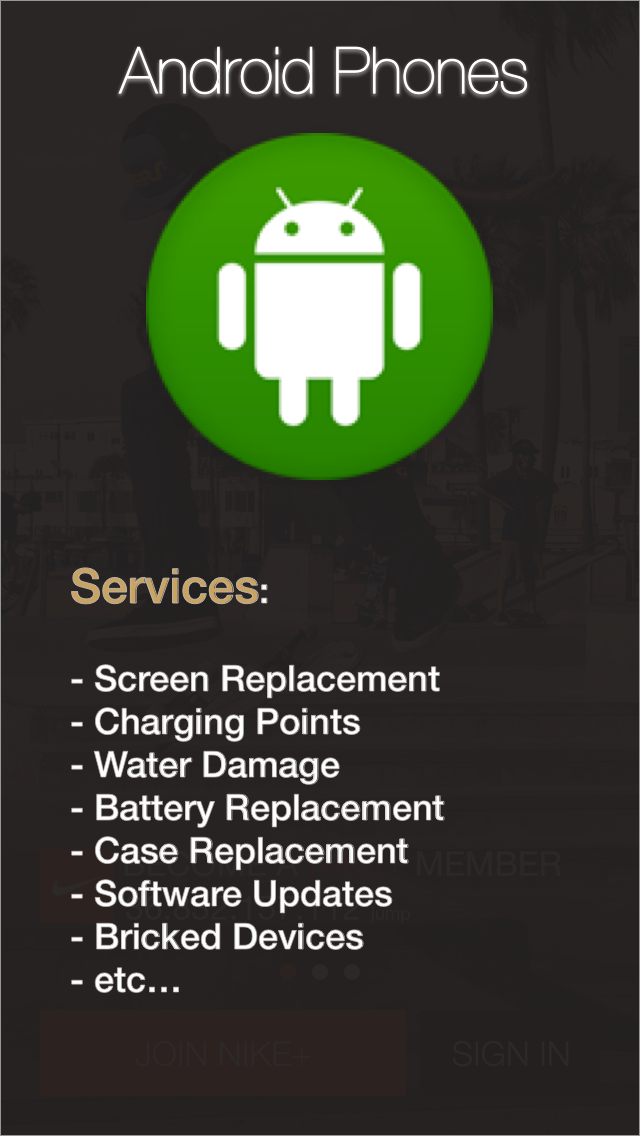
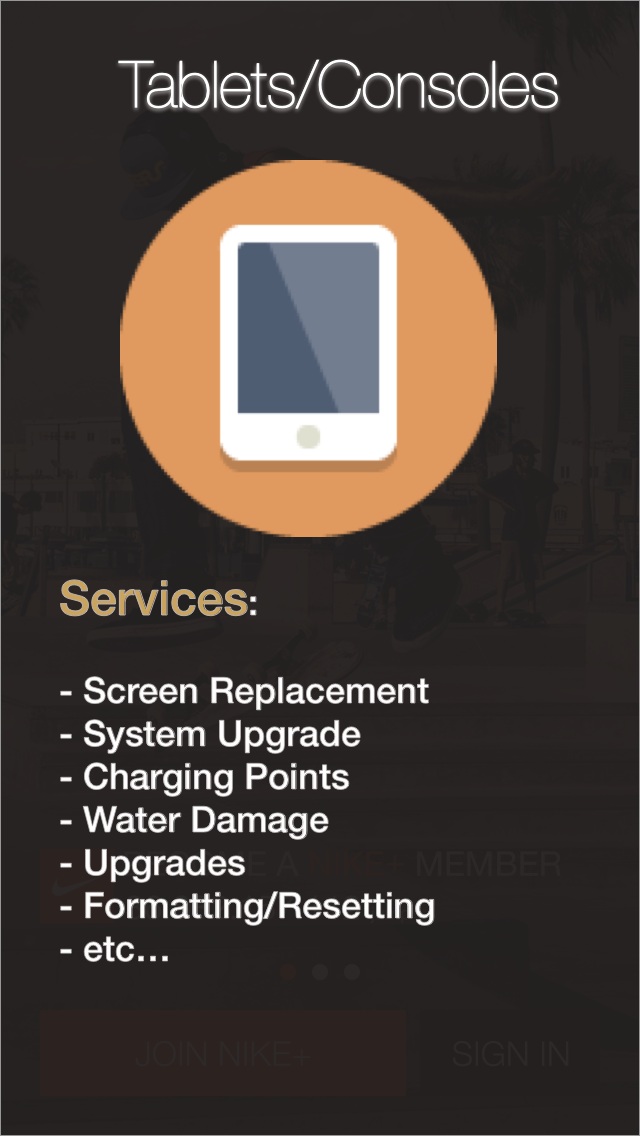
fix services

Changed region(s): [[0.0938, 0.0308, 0.875, 0.5546], [0.0938, 0.5854, 0.6875, 0.8935]]

diff --git a/index.html b/index.html
@@ -308,31 +308,31 @@
 		    <div class="row wow bounceInUp" >
               <div id="owl-demo" class="owl-carousel">
 				
-				<a href="img/slide/ta_1.png" class="image-link">
+				<a href="img/slide/tt_1.png" class="image-link">
 					<div class="item">
-						<img  class="img-responsive img-rounded" src="img/slide/ta_1.png" alt="">
+						<img  class="img-responsive img-rounded" src="img/slide/tt_1.png" alt="">
 					</div>
 				</a>
 
 
-               <a href="img/slide/ta_2.png" class="image-link">
+               <a href="img/slide/tt_2.png" class="image-link">
 					<div class="item">
-						<img  class="img-responsive img-rounded" src="img/slide/ta_2.png" alt="">
+						<img  class="img-responsive img-rounded" src="img/slide/tt_2.png" alt="">
 					</div>
 				</a>
 				
-				<a href="img/slide/ta_3.png" class="image-link">
+				<a href="img/slide/tt_3.png" class="image-link">
 					<div class="item">
-						<img  class="img-responsive img-rounded" src="img/slide/ta_3.png" alt="">
+						<img  class="img-responsive img-rounded" src="img/slide/tt_3.png" alt="">
 					</div>
 				</a>
 
 				
 				
 				
-				<a href="img/slide/ta_4.png" class="image-link">
+				<a href="img/slide/tt_4.png" class="image-link">
 					<div class="item">
-						<img  class="img-responsive img-rounded" src="img/slide/ta_4.png" alt="">
+						<img  class="img-responsive img-rounded" src="img/slide/tt_4.png" alt="">
 					</div>
 				</a>
 				
@@ -341,23 +341,7 @@
 						<img  class="img-responsive img-rounded" src="img/slide/ta_1.png" alt="">
 					</div>
 				</a>
-				
-				<a href="img/slide/ta_6.png" class="image-link">
-					<div class="item">
-						<img  class="img-responsive img-rounded" src="img/slide/ta_2.png" alt="">
-					</div>
-				</a>
-				<a href="img/slide/ta_7.png" class="image-link">
-					<div class="item">
-						<img  class="img-responsive img-rounded" src="img/slide/ta_3.png" alt="">
-					</div>
-				</a>
-				
-				<a href="img/slide/ta_8.png" class="image-link">
-					<div class="item">
-						<img  class="img-responsive img-rounded" src="img/slide/ta_4.png" alt="">
-					</div>
-				</a>
+			
               </div>       
           </div>
         </div>
